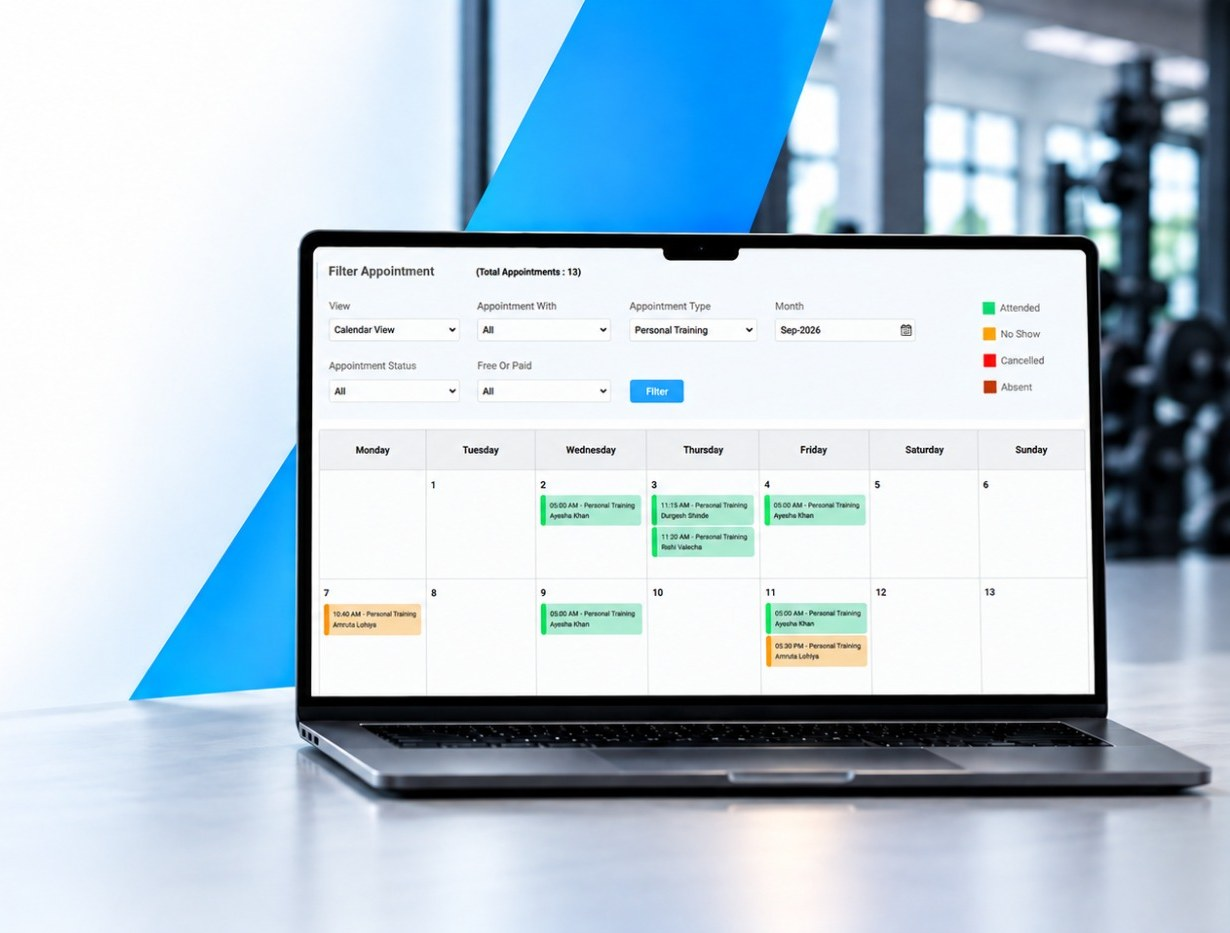
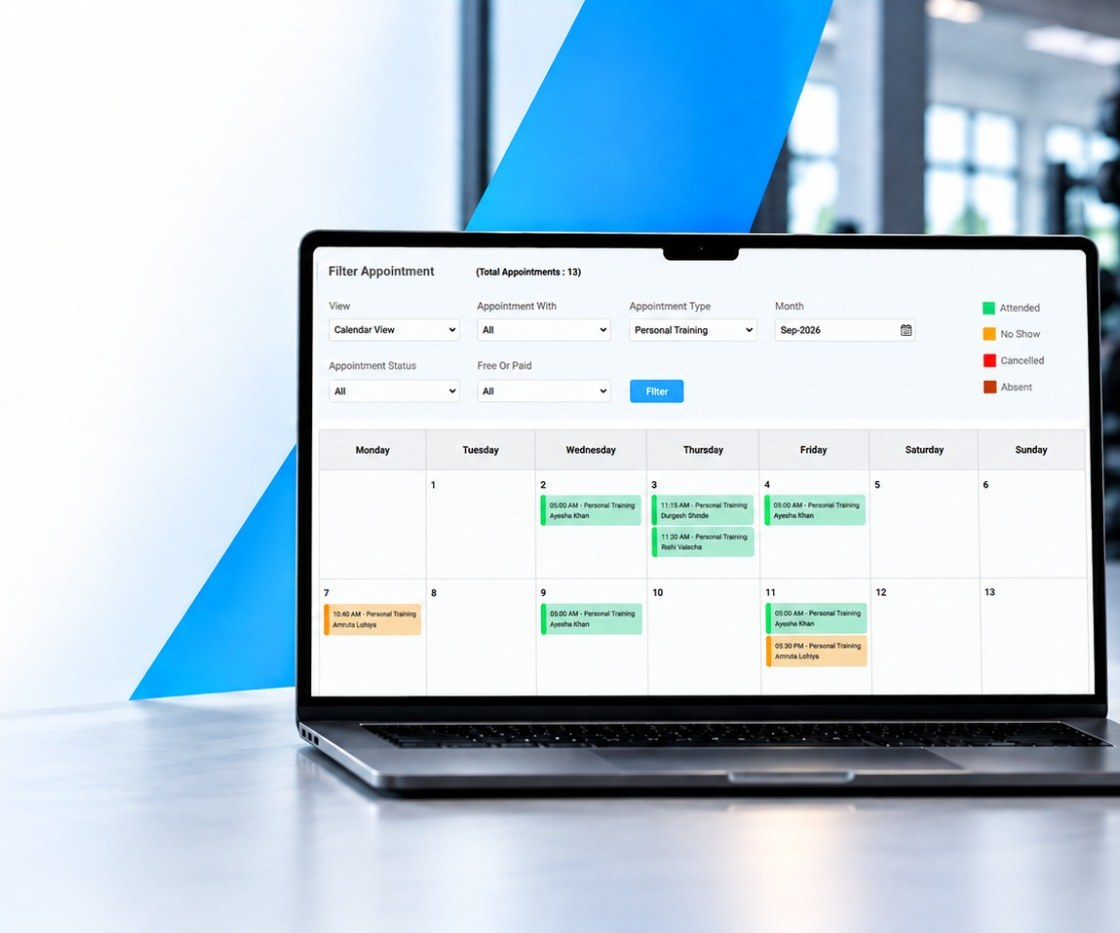
Fit appointment screenshot tightly in its frame (crop decorative bg)

diff --git a/appointment-and-class/appointment-and-class.html b/appointment-and-class/appointment-and-class.html
@@ -274,7 +274,7 @@
 <div><h3 style="font-size:15px; font-weight:700; color:#111; margin-bottom:6px;">Schedule Changes</h3><p style="font-size:13px; color:#666; margin:0;">Update schedules and notify members automatically</p></div></div>
 </div>
 </div>
-<div style="background:#f0f4f8; border-radius:16px; overflow:hidden; border:1px solid #e7eaf3; min-height:300px; display:flex; align-items:center; justify-content:center;">
+<div style="border-radius:16px; overflow:hidden; box-shadow:0 18px 48px rgba(16,40,100,.14);">
 <img src="../assets/class-screenshot-cropped.jpg" alt="Gymex class schedule management screenshot" style="width:100%; height:auto; display:block;">
 </div>
 </div>
@@ -322,8 +322,8 @@
 <div style="display:flex; align-items:center; padding:12px 18px; background:#fff; border-radius:12px; border:1px solid #e5e7eb; box-shadow:0 2px 8px rgba(0,0,0,.04); white-space:nowrap;"><span style="font-size:13px; font-weight:500; color:#333;">Attend</span></div>
 </div>
 </div>
-<div style="background:#f0f4f8; border-radius:16px; overflow:hidden; border:1px solid #e7eaf3; min-height:300px; display:flex; align-items:center; justify-content:center;">
-<img src="../assets/gym-appointment-cropped.webp" alt="Gymex appointment scheduling software screenshot" style="width:100%; height:auto; display:block;">
+<div style="border-radius:16px; overflow:hidden; box-shadow:0 18px 48px rgba(16,40,100,.14);">
+<img src="../assets/gym-appointment-tight.webp?v=2" alt="Gymex appointment scheduling software screenshot" style="width:100%; height:auto; display:block;">
 </div>
 </div>
 </section>
